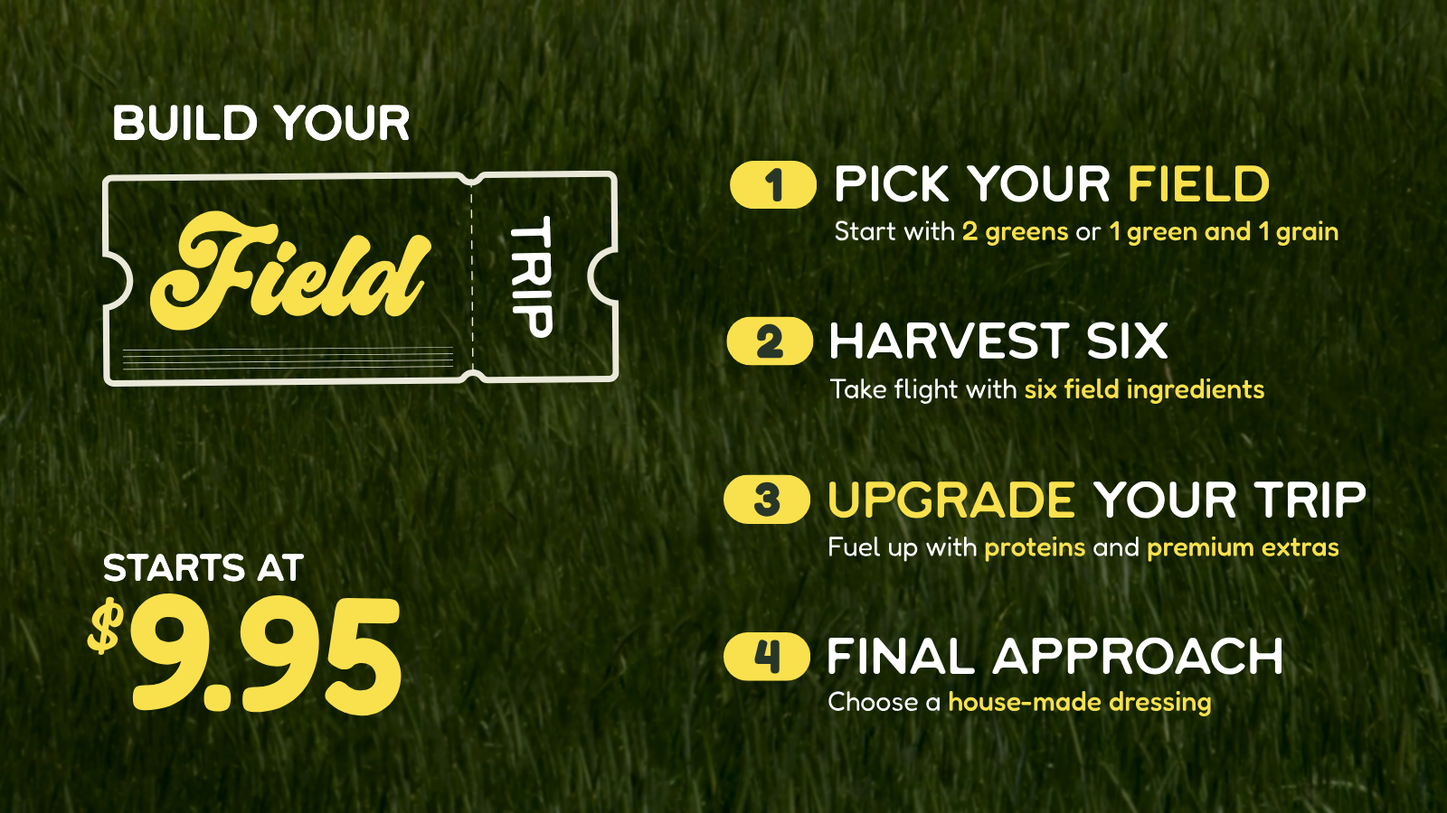
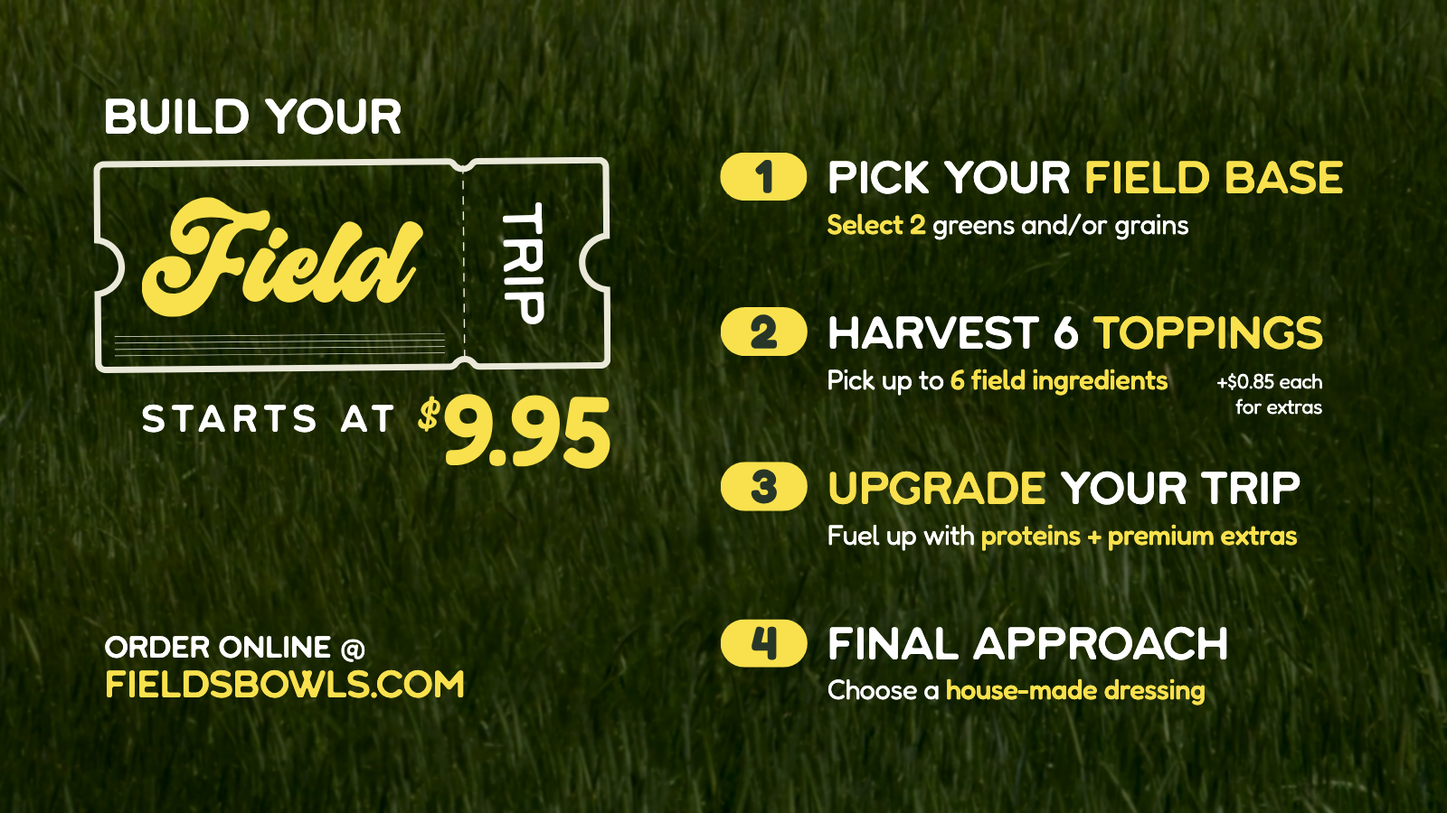
Final boards from Figma FINAL - 1, 2, 3; Layout 2 archived, toggle removed
- Board 1: FINAL - 1, identical to the current Fields Gathered board (no change).
- Board 2: FINAL - 2, Build Your Field Trip with live-text steps (Pick your field base,
  Harvest 6 toppings, +$0.85 each for extras, Upgrade your trip, Final approach) and
  Order online @ fieldsbowls.com.
- Board 3: FINAL - 3, Greens + Grains, Field Ingredients, Proteins with prices, and
  Refreshers ($4.50) with four drinks, plus the olive oil / sourcing note. Caption
  "Ingredients, Proteins + Refreshers".
Within 1 px of Figma at 4K. Layout 2 is archived, so the Layout toggle goes away; the
option is called Grass again. Canvas row D updated, row E moved to the Archive page.

diff --git a/design/Grass-Board3.dc.html b/design/Grass-Board3.dc.html
@@ -2,7 +2,7 @@
 <html lang="en">
 <head>
 <meta charset="utf-8">
-<title>Option D Board 3: Ingredients + Bevs</title>
+<title>Option D Board 3: Ingredients, Proteins + Refreshers</title>
 <script src="./support.js"></script>
 </head>
 <body>
@@ -17,14 +17,19 @@ body{margin:0;font-family:'Fredoka', sans-serif;background:#1d2716;color:#ffffff
 </style>
 </helmet>
 <div class="grass-bg" style="width: 3840px; height: 2160px; box-sizing: border-box; background-color: #1d2716; color: #ffffff; font-family: 'Fredoka', sans-serif; overflow: hidden; position: relative">
-<h2 style="position: absolute; left: 157px; top: 254.1px; margin: 0; font-family: 'Midstar', 'Fredoka', cursive; font-weight: 400; font-size: 253px; line-height: 121.8px; color: #f9e14d; white-space: nowrap">Greens + Grains</h2>
-<p style="position: absolute; left: 217px; top: 499px; margin: 0; font-size: 80px; font-weight: 400; line-height: 123.6px; color: #ffffff; white-space: nowrap">Romaine Hearts · Arugula · Kale · Baby Spinach</p>
-<p style="position: absolute; left: 217px; top: 623px; margin: 0; font-size: 80px; font-weight: 400; line-height: 123.6px; color: #f9e14d; white-space: nowrap">Wild Rice · Tri-Color Quinoa</p>
-<h2 style="position: absolute; left: 157px; top: 954.1px; margin: 0; font-family: 'Midstar', 'Fredoka', cursive; font-weight: 400; font-size: 253px; line-height: 121.8px; color: #f9e14d; white-space: nowrap">Field Ingredients</h2>
-<p style="position: absolute; left: 217px; top: 1235px; margin: 0; font-size: 80px; font-weight: 400; line-height: 123.6px; color: #ffffff; white-space: nowrap">Cucumber · Tri-Color Cherry Tomatoes · Carrot Ribbons<br>Red Onion · Black Beans · Char-Grilled Corn<br>Grilled Poblano · Roasted Chickpeas · Roasted Broccoli<br>Roasted Sweet Potato · Watermelon Radish · Edamame<br>Green Apple · Sliced Strawberries · Pico de Gallo<br>Cilantro · Chives</p>
-<h2 style="position: absolute; left: 2468px; top: 254.1px; margin: 0; font-family: 'Midstar', 'Fredoka', cursive; font-weight: 400; font-size: 253px; line-height: 121.8px; color: #f9e14d; white-space: nowrap">Refreshers</h2>
-<img src="/_blob/1fe0f9f8527c0305a1e2ffc981ed1a79" alt="" style="position: absolute; left: 1410px; top: 1099px; width: 1822px; height: 8px; display: block; transform: rotate(90deg)">
-<div style="position: absolute; left: 2528px; top: 686px; width: 1131px; display: flex; flex-direction: column; gap: 96px"><div style="display: flex; flex-direction: column; gap: 24px"><div style="display: flex; align-items: center; justify-content: space-between; height: 122px; white-space: nowrap"><span style="font-family: 'Heart of the Land', 'Fredoka', sans-serif; font-weight: 400; font-size: 90px; line-height: 121.8px">Arnold Palmer</span><span style="font-size: 98px; font-weight: 600; line-height: 73.6px; color: #f9e14d">$8.95</span></div><p style="margin: 0; height: 65px; font-size: 62px; font-weight: 400; line-height: 64.4px; white-space: nowrap">Sweet tea &amp; lemonade</p></div><div style="display: flex; flex-direction: column; gap: 24px"><div style="display: flex; align-items: center; justify-content: space-between; height: 122px; white-space: nowrap"><span style="font-family: 'Heart of the Land', 'Fredoka', sans-serif; font-weight: 400; font-size: 90px; line-height: 121.8px">Valencia</span><span style="font-size: 98px; font-weight: 600; line-height: 73.6px; color: #f9e14d">$8.95</span></div><p style="margin: 0; height: 65px; font-size: 62px; font-weight: 400; line-height: 64.4px; white-space: nowrap">Fresh orange juice &amp; lemon</p></div><div style="display: flex; flex-direction: column; gap: 24px"><div style="display: flex; align-items: center; justify-content: space-between; height: 122px; white-space: nowrap"><span style="font-family: 'Heart of the Land', 'Fredoka', sans-serif; font-weight: 400; font-size: 90px; line-height: 121.8px">Flamingo</span><span style="font-size: 98px; font-weight: 600; line-height: 73.6px; color: #f9e14d">$9.25</span></div><p style="margin: 0; height: 65px; font-size: 62px; font-weight: 400; line-height: 64.4px; white-space: nowrap">Tropical hibiscus &amp; lemonade</p></div><div style="display: flex; flex-direction: column; gap: 24px"><div style="display: flex; align-items: center; justify-content: space-between; height: 122px; white-space: nowrap"><span style="font-family: 'Heart of the Land', 'Fredoka', sans-serif; font-weight: 400; font-size: 90px; line-height: 121.8px">Bluebird</span><span style="font-size: 98px; font-weight: 600; line-height: 73.6px; color: #f9e14d">$9.50</span></div><p style="margin: 0; height: 129px; font-size: 62px; font-weight: 400; line-height: 64.4px; white-space: nowrap">Refreshing blueberry lavender<br>iced tea</p></div></div>
+<h2 style="position: absolute; left: 177px; top: 196.1px; margin: 0; font-family: 'Midstar', 'Fredoka', cursive; font-weight: 400; font-size: 163px; line-height: 121.8px; color: #f9e14d; white-space: nowrap">Greens + Grains</h2>
+<div style="position: absolute; left: 217px; top: 403px; width: 1841px; display: grid; grid-template-columns: repeat(3, minmax(0, 1fr)); column-gap: 76px; row-gap: 53px; align-items: start; font-size: 68px; font-weight: 400; line-height: normal; white-space: nowrap"><div style="color: #ffffff">Romaine Hearts</div><div style="color: #ffffff">Arugula</div><div style="color: #ffffff">Kale</div><div style="color: #ffffff">Baby Spinach</div><div style="color: #f9e14d">Wild Rice</div><div style="color: #f9e14d">Tri-Color Quinoa</div></div>
+<h2 style="position: absolute; left: 177px; top: 732.1px; margin: 0; font-family: 'Midstar', 'Fredoka', cursive; font-weight: 400; font-size: 163px; line-height: 121.8px; color: #f9e14d; white-space: nowrap">Field Ingredients</h2>
+<div style="position: absolute; left: 217px; top: 981px; width: 1868px; display: grid; grid-template-columns: repeat(3, minmax(0, 1fr)); column-gap: 76px; row-gap: 38px; align-items: start; font-size: 68px; font-weight: 400; line-height: normal; white-space: nowrap"><div style="color: #ffffff">Cucumber</div><div style="color: #ffffff">Carrot Ribbons</div><div style="color: #ffffff">Red Onion</div><div style="color: #ffffff">Edamame</div><div style="color: #ffffff">Black Beans</div><div style="color: #ffffff">Char-Grilled Corn</div><div style="color: #ffffff">Tri-Color Cherry<br>Tomatoes</div><div style="color: #ffffff">Roasted Sweet<br>Potato</div><div style="color: #ffffff">Roasted<br>Chickpeas</div><div style="color: #ffffff">Grilled Poblano<br>Peppers</div><div style="color: #ffffff">Roasted<br>Broccoli</div><div style="color: #ffffff">Watermelon<br>Radish</div><div style="color: #ffffff">Pico de Gallo</div><div style="color: #ffffff">Green Apples</div><div style="color: #ffffff">Strawberries</div><div style="color: #ffffff">Cilantro</div><div style="color: #ffffff">Chives</div><div style="color: #ffffff"></div></div>
+<h2 style="position: absolute; left: 2323px; top: 196.1px; margin: 0; font-family: 'Midstar', 'Fredoka', cursive; font-weight: 400; font-size: 163px; line-height: 121.8px; color: #f9e14d; white-space: nowrap">Proteins</h2>
+<div style="position: absolute; left: 2361px; top: 403px; width: 1275px; display: flex; flex-direction: column; gap: 38px; font-size: 68px"><div style="display: flex; align-items: center; justify-content: space-between; white-space: nowrap"><span style="font-weight: 400; line-height: normal">Citrus-Herb Char Chicken</span><span style="font-weight: 600; line-height: 73.6px; color: #f9e14d">+$4.25</span></div><div style="display: flex; align-items: center; justify-content: space-between; white-space: nowrap"><span style="font-weight: 400; line-height: normal">Blackened Chicken</span><span style="font-weight: 600; line-height: 73.6px; color: #f9e14d">+$4.50</span></div><div style="display: flex; align-items: center; justify-content: space-between; white-space: nowrap"><span style="font-weight: 400; line-height: normal">Alaskan Sesame Miso Salmon</span><span style="font-weight: 600; line-height: 73.6px; color: #f9e14d">+$6.50</span></div><div style="display: flex; align-items: center; justify-content: space-between; white-space: nowrap"><span style="font-weight: 400; line-height: normal">Smoked Applewood Bacon</span><span style="font-weight: 600; line-height: 73.6px; color: #f9e14d">+$2.85</span></div><div style="display: flex; align-items: center; justify-content: space-between; white-space: nowrap"><span style="font-weight: 400; line-height: normal">Sriracha Hot Honey Tofu</span><span style="font-weight: 600; line-height: 73.6px; color: #f9e14d">+$3.50</span></div><div style="display: flex; align-items: center; justify-content: space-between; white-space: nowrap"><span style="font-weight: 400; line-height: normal">Roasted Shiitake Mushrooms</span><span style="font-weight: 600; line-height: 73.6px; color: #f9e14d">+$3.50</span></div><div style="display: flex; align-items: center; justify-content: space-between; white-space: nowrap"><span style="font-weight: 400; line-height: normal">Hardboiled Egg</span><span style="font-weight: 600; line-height: 73.6px; color: #f9e14d">+$1.25</span></div></div>
+<h2 style="position: absolute; left: 2323px; top: 1322.1px; margin: 0; font-family: 'Midstar', 'Fredoka', cursive; font-weight: 400; font-size: 163px; line-height: 121.8px; color: #f9e14d; white-space: nowrap">Refreshers</h2>
+<p style="position: absolute; left: 3393px; top: 1375px; margin: 0; font-size: 106px; font-weight: 600; line-height: 73.6px; white-space: nowrap">$4.50</p>
+<div style="position: absolute; left: 2361px; top: 1568px; width: 717px; white-space: nowrap"><div style="margin-bottom: -13px; font-family: 'Heart of the Land', 'Fredoka', sans-serif; font-weight: 400; font-size: 80px; line-height: 121.8px; color: #f9e14d">PALM SPRINGS</div><div style="font-size: 68px; font-weight: 400; line-height: normal">iced tea + lemonade</div></div>
+<div style="position: absolute; left: 3123px; top: 1568px; width: 717px; white-space: nowrap"><div style="margin-bottom: -13px; font-family: 'Heart of the Land', 'Fredoka', sans-serif; font-weight: 400; font-size: 80px; line-height: 121.8px; color: #f9e14d">VALENCIA</div><div style="font-size: 68px; font-weight: 400; line-height: normal">orange</div></div>
+<div style="position: absolute; left: 2361px; top: 1807px; width: 717px; white-space: nowrap"><div style="margin-bottom: -13px; font-family: 'Heart of the Land', 'Fredoka', sans-serif; font-weight: 400; font-size: 80px; line-height: 121.8px; color: #f9e14d">FLAMINGO</div><div style="font-size: 68px; font-weight: 400; line-height: normal">hibiscus lemonade</div></div>
+<div style="position: absolute; left: 3123px; top: 1807px; width: 717px; white-space: nowrap"><div style="margin-bottom: -13px; font-family: 'Heart of the Land', 'Fredoka', sans-serif; font-weight: 400; font-size: 80px; line-height: 121.8px; color: #f9e14d">BLUEBIRD</div><div style="font-size: 68px; font-weight: 400; line-height: normal">blueberry iced tea</div></div>
+<p style="position: absolute; left: 109px; top: 2009px; transform: translateY(-50%); margin: 0; font-size: 54px; font-weight: 400; line-height: normal; white-space: nowrap">We only use Italian olive oil in our marinades and dressings.<br>All proteins ethically sourced and sustainable</p>
 </div>
 </x-dc>
 <script type="text/x-dc" data-dc-script data-props='{"$preview":{"width":3840,"height":2160}}'>

diff --git a/design/Grass-Board2.dc.html b/design/Grass-Board2.dc.html
@@ -17,25 +17,28 @@ body{margin:0;font-family:'Fredoka', sans-serif;background:#1d2716;color:#ffffff
 </style>
 </helmet>
 <div class="grass-bg" style="width: 3840px; height: 2160px; box-sizing: border-box; background-color: #1d2716; color: #ffffff; font-family: 'Fredoka', sans-serif; overflow: hidden; position: relative">
-<img src="/_blob/1f3e71b203b69e21c8ed1af643aa3a62" alt="" style="position: absolute; left: 269.952px; top: 452.952px; width: 1372.8px; height: 574.128px; display: block">
-<img src="/_blob/52d4baa60b25ff2a85f0cfdd9cfb8b64" alt="Field" style="position: absolute; left: 398.02px; top: 560.26px; width: 746.523px; height: 318.129px; display: block">
-<img src="/_blob/088367d6b171719a7f6558c6dfe4cb27" alt="Trip" style="position: absolute; left: 1249.41px; top: 684.102px; width: 324.073px; height: 104.83px; display: block; transform: rotate(88.74deg)">
-<p style="position: absolute; left: 295px; top: 259px; margin: 0; font-family: 'Heart of the Land', 'Fredoka', sans-serif; font-weight: 400; font-size: 130px; line-height: 123.6px; white-space: nowrap">BUILD YOUR</p>
-<p style="position: absolute; left: 273.54px; top: 1443px; margin: 0; font-family: 'Heart of the Land', 'Fredoka', sans-serif; font-weight: 400; font-size: 100px; line-height: 123.6px; white-space: nowrap">STARTS AT</p>
-<img src="/_blob/0c1cbce504853417f3c1de6f7a1607c9" alt="$9.95" style="position: absolute; left: 205px; top: 1575.33px; width: 862.543px; height: 327.289px; display: block">
-<img src="/_blob/e8e5569f9b638941f0e20ddb220637fa" alt="" style="position: absolute; left: 1941.89px; top: 1043.06px; width: 3.072px; height: 1.08px; display: block; transform: scaleY(-1)">
-<img src="/_blob/043eb4097ea4fbbed468e78b36cc57d0" alt="1" style="position: absolute; left: 1937px; top: 427px; width: 231px; height: 128.452px; display: block">
-<img src="/_blob/8647c1e19b696e6485f31781ef9752ea" alt="Pick your field" style="position: absolute; left: 2219.52px; top: 437.93px; width: 1148.77px; height: 99.496px; display: block">
-<img src="/_blob/440895a9671bd08cc77240a45189ed86" alt="Start with 2 greens or 1 green and 1 grain" style="position: absolute; left: 2217.27px; top: 585.99px; width: 1333.99px; height: 67.19px; display: block">
-<img src="/_blob/b92ff74f402cb85a646d44c6ceefe775" alt="2" style="position: absolute; left: 1928px; top: 841.18px; width: 231px; height: 129.712px; display: block">
-<img src="/_blob/4202076a8f8917de7b9c51e698782702" alt="Harvest six" style="position: absolute; left: 2205.17px; top: 854.67px; width: 893.611px; height: 99.496px; display: block">
-<img src="/_blob/fedcbef7ad9de04a483209a6c0224590" alt="Take flight with six field ingredients" style="position: absolute; left: 2202.31px; top: 1005.45px; width: 1152.22px; height: 67.336px; display: block">
-<img src="/_blob/1930219e5e916519dba999c597027e06" alt="3" style="position: absolute; left: 1920px; top: 1260.79px; width: 231px; height: 130.972px; display: block">
-<img src="/_blob/c55a452476105e9acc95b6d2ea1df7c2" alt="Upgrade your trip" style="position: absolute; left: 2201.27px; top: 1277.69px; width: 1423.38px; height: 99.496px; display: block">
-<img src="/_blob/09bccdd41df448deb0ca6d1c4d548a3a" alt="Fuel up with proteins and premium extras" style="position: absolute; left: 2201.27px; top: 1425.22px; width: 1351.79px; height: 67.263px; display: block">
-<img src="/_blob/82acaa3b98e91ade47c420b69f10c778" alt="4" style="position: absolute; left: 1920px; top: 1680.48px; width: 231px; height: 128.485px; display: block">
-<img src="/_blob/521ab94e2c2d4a0a48c52a74091ab5db" alt="Final approach" style="position: absolute; left: 2199.28px; top: 1692.66px; width: 1201.29px; height: 99.496px; display: block">
-<img src="/_blob/8c9433b7a78cc3434d82dbc50fcebfa9" alt="Choose a house-made dressing" style="position: absolute; left: 2199.28px; top: 1835.84px; width: 1013.46px; height: 67.191px; display: block">
+<img src="/_blob/1f3e71b203b69e21c8ed1af643aa3a62" alt="" style="position: absolute; left: 248.064px; top: 417.096px; width: 1372.8px; height: 573.912px; display: block">
+<img src="/_blob/52d4baa60b25ff2a85f0cfdd9cfb8b64" alt="Field" style="position: absolute; left: 376.02px; top: 524.26px; width: 746.523px; height: 318.129px; display: block">
+<img src="/_blob/088367d6b171719a7f6558c6dfe4cb27" alt="Trip" style="position: absolute; left: 1227.41px; top: 648.102px; width: 324.073px; height: 104.83px; display: block; transform: rotate(88.74deg)">
+<p style="position: absolute; left: 273px; top: 241px; margin: 0; font-family: 'Heart of the Land', 'Fredoka', sans-serif; font-weight: 400; font-size: 130px; line-height: 123.6px; white-space: nowrap">BUILD YOUR</p>
+<p style="position: absolute; left: 376px; top: 1045px; margin: 0; font-family: 'Heart of the Land', 'Fredoka', sans-serif; font-weight: 400; font-size: 100px; line-height: 123.6px; letter-spacing: 17px; white-space: nowrap">STARTS AT</p>
+<img src="/_blob/8fc42b18a74e921aa0aa763704b07bf7" alt="$9.95" style="position: absolute; left: 1093px; top: 1046px; width: 527.543px; height: 200.174px; display: block">
+<p style="position: absolute; left: 277px; top: 1655px; margin: 0; font-family: 'Heart of the Land', 'Fredoka', sans-serif; font-weight: 400; font-size: 80px; line-height: 123.6px; white-space: nowrap">ORDER ONLINE @</p>
+<p style="position: absolute; left: 277px; top: 1752px; margin: 0; font-family: 'Heart of the Land', 'Fredoka', sans-serif; font-weight: 400; font-size: 100px; line-height: 123.6px; white-space: nowrap"><span style="color: #f9e14d">FIELDSBOWLS.COM</span></p>
+<img src="/_blob/e8e5569f9b638941f0e20ddb220637fa" alt="" style="position: absolute; left: 1819.01px; top: 1019.09px; width: 3.072px; height: 1.08px; display: block; transform: scaleY(-1)">
+<img src="/_blob/043eb4097ea4fbbed468e78b36cc57d0" alt="1" style="position: absolute; left: 1911.03px; top: 405px; width: 231px; height: 128.452px; display: block">
+<p style="position: absolute; left: 2195.03px; top: 405px; margin: 0; font-family: 'Heart of the Land', 'Fredoka', sans-serif; font-weight: 400; font-size: 120px; line-height: 123.6px; white-space: nowrap">PICK YOUR <span style="color: #f9e14d">FIELD BASE</span></p>
+<p style="position: absolute; left: 2195.03px; top: 550px; margin: 0; font-size: 74px; font-weight: 400; line-height: normal; letter-spacing: -1px; white-space: nowrap; font-feature-settings: 'dlig' 1"><span style="font-weight: 500; color: #f9e14d">Select 2</span> greens and/or grains</p>
+<img src="/_blob/b92ff74f402cb85a646d44c6ceefe775" alt="2" style="position: absolute; left: 1912.03px; top: 816px; width: 231px; height: 129.712px; display: block">
+<p style="position: absolute; left: 2195.03px; top: 817px; margin: 0; font-family: 'Heart of the Land', 'Fredoka', sans-serif; font-weight: 400; font-size: 120px; line-height: 123.6px; white-space: nowrap">HARVEST 6 <span style="color: #f9e14d">TOPPINGS</span></p>
+<p style="position: absolute; left: 2195.03px; top: 962px; margin: 0; font-size: 74px; font-weight: 400; line-height: normal; letter-spacing: -1px; white-space: nowrap; font-feature-settings: 'dlig' 1">Pick up to<span style="font-weight: 500; color: #f9e14d"> 6 field ingredients</span></p>
+<img src="/_blob/1930219e5e916519dba999c597027e06" alt="3" style="position: absolute; left: 1912.03px; top: 1227px; width: 231px; height: 130.972px; display: block">
+<p style="position: absolute; left: 2195.03px; top: 1229px; margin: 0; font-family: 'Heart of the Land', 'Fredoka', sans-serif; font-weight: 400; font-size: 120px; line-height: 123.6px; white-space: nowrap"><span style="color: #f9e14d">UPGRADE</span> YOUR TRIP</p>
+<p style="position: absolute; left: 2195.03px; top: 1374px; margin: 0; font-size: 74px; font-weight: 400; line-height: normal; letter-spacing: -1px; white-space: nowrap; font-feature-settings: 'dlig' 1">Fuel up with <span style="font-weight: 500; color: #f9e14d">proteins + premium extras</span></p>
+<img src="/_blob/82acaa3b98e91ade47c420b69f10c778" alt="4" style="position: absolute; left: 1912.03px; top: 1645px; width: 231px; height: 128.485px; display: block">
+<p style="position: absolute; left: 2195.03px; top: 1642px; margin: 0; font-family: 'Heart of the Land', 'Fredoka', sans-serif; font-weight: 400; font-size: 120px; line-height: 123.6px; white-space: nowrap">FINAL APPROACH</p>
+<p style="position: absolute; left: 2195.03px; top: 1786px; margin: 0; font-size: 74px; font-weight: 400; line-height: normal; letter-spacing: -1px; white-space: nowrap; font-feature-settings: 'dlig' 1">Choose a <span style="font-weight: 500; color: #f9e14d">house-made dressing</span></p>
+<p style="position: absolute; right: 331px; top: 979px; margin: 0; font-size: 55px; font-weight: 400; line-height: normal; letter-spacing: -1px; text-align: right; white-space: nowrap">+$0.85 each<br>for extras</p>
 </div>
 </x-dc>
 <script type="text/x-dc" data-dc-script data-props='{"$preview":{"width":3840,"height":2160}}'>

diff --git a/js/config.js b/js/config.js
@@ -13,9 +13,9 @@
  *
  * Adding a board: add it to `boards`; to show it in the photo, give it a `screens` entry.
  *
- * The live options are now two menu layouts on the same Grass ground (`optionsLabel`), each a
- * row of Figma's LATEST BOARDS page. An option's `titles` names its boards where they differ
- * from `boards`.
+ * Grass is the only live option (the final boards). Layout 2 is archived; with two or more options
+ * the tabs come back, labelled `optionsLabel`. An option's `titles` names its boards where they
+ * differ from `boards`.
  */
 window.MENU_CONFIG = {
   title: 'Fields · Menu Boards',
@@ -36,7 +36,7 @@ window.MENU_CONFIG = {
   boards: [
     { id: 'salads', title: 'Fields Gathered', short: 'Salads' },
     { id: 'build', title: 'Build Your Field Trip', short: 'BYO' },
-    { id: 'beverages', title: 'Greens, Grains + Refreshers', short: 'Beverages' },
+    { id: 'beverages', title: 'Ingredients, Proteins + Refreshers', short: 'Beverages' },
   ],
 
   // Mix & Match starts from this combination (board → colorway) the first time it's opened.
@@ -69,15 +69,15 @@ window.MENU_CONFIG = {
     // `motion`: Still / Motion / Panorama. Motion swaps the stills for the moving footage (one
     // shared loop, tools/grass-motion.mjs) under each board's text; `start` is each board's
     // moment in the loop, matching its still. `span`: Panorama, one field across all three TVs.
-    { id: 'grass', name: 'Layout 1', ground: '#3f5a22', accent: '#f9e14d',
-      description: 'First row in Figma: Fields Gathered, Build Your Field Trip, Ingredients + Refreshers',
+    { id: 'grass', name: 'Grass', ground: '#3f5a22', accent: '#f9e14d',
+      description: 'Grass photo ground: the final boards from Figma (FINAL - 1, 2, 3)',
       motion: { start: { salads: 0, build: 9.5, beverages: 17.5 }, span: true } },
-    // The second row in Figma (frames 1, 2, 3): same ground and footage (`motion.from`), Field
-    // Trip on the left TV, then the bowls over two boards with Refreshers.
+    // Archived: the earlier second row in Figma (frames 3, 1, 2), same ground and footage
+    // (`motion.from`). Delete `archived` to bring back the Layout toggle.
     { id: 'grass-2', name: 'Layout 2', ground: '#3f5a22', accent: '#f9e14d',
       description: 'Second row in Figma, Field Trip first: Build Your Field Trip, Fields Gathered, Bowls + Refreshers',
       titles: { salads: 'Build Your Field Trip', build: 'Fields Gathered', beverages: 'Bowls + Refreshers' },
-      motion: { from: 'grass', start: { salads: 0, build: 9.5, beverages: 17.5 }, span: true } },
+      motion: { from: 'grass', start: { salads: 0, build: 9.5, beverages: 17.5 }, span: true }, archived: true },
   ],
 
   // A board's name in this option: its own `titles` entry, else the board's title.

diff --git a/assets/boards/versions.js b/assets/boards/versions.js
@@ -16,14 +16,14 @@ window.BOARD_VERSIONS = {
   "forest/salads-screen.png": "aa6ef7180a",
   "forest/salads.mp4": "8639fc3c96",
   "forest/salads.png": "0ee02eaa35",
-  "grass/beverages-screen.png": "87a7fd25a2",
-  "grass/beverages-text-screen.png": "89307b71e9",
-  "grass/beverages-text.png": "3281c766d6",
-  "grass/beverages.png": "eacee7d93a",
-  "grass/build-screen.png": "25219c4e95",
-  "grass/build-text-screen.png": "4c9718e131",
-  "grass/build-text.png": "73c7c81be2",
-  "grass/build.png": "0177213130",
+  "grass/beverages-screen.png": "af1b59cd6a",
+  "grass/beverages-text-screen.png": "97a5230ae3",
+  "grass/beverages-text.png": "396c351492",
+  "grass/beverages.png": "df17e48deb",
+  "grass/build-screen.png": "a91132508e",
+  "grass/build-text-screen.png": "b43fc09471",
+  "grass/build-text.png": "0966cedf1a",
+  "grass/build.png": "30883951f4",
   "grass/motion-screen.mp4": "09b4be509d",
   "grass/motion.mp4": "4100e164d4",
   "grass/salads-screen.png": "828f2d80fe",

diff --git a/index.html b/index.html
@@ -11,8 +11,8 @@
 <body class="page-scene">
 <main id="scene" class="scene" aria-label="Menu boards in store"></main>
 <p class="rotate-hint">Turn your phone sideways for a closer look</p>
-<script src="assets/boards/versions.js?v=819e1d046e"></script>
-<script src="js/config.js?v=05226c3c1a"></script>
+<script src="assets/boards/versions.js?v=017f0891d8"></script>
+<script src="js/config.js?v=eb8caf72e6"></script>
 <script src="js/common.js?v=c7d3fd3009"></script>
 <script src="js/scene.js?v=374e8dda85"></script>
 </body>

diff --git a/gallery.html b/gallery.html
@@ -16,8 +16,8 @@
   <nav aria-label="Colorways and boards"><ol id="toc" class="toc"></ol></nav>
 </aside>
 <main id="doc" class="doc"></main>
-<script src="assets/boards/versions.js?v=819e1d046e"></script>
-<script src="js/config.js?v=05226c3c1a"></script>
+<script src="assets/boards/versions.js?v=017f0891d8"></script>
+<script src="js/config.js?v=eb8caf72e6"></script>
 <script src="js/common.js?v=c7d3fd3009"></script>
 <script src="js/gallery.js?v=515b53a47c"></script>
 </body>

diff --git a/tools/build-grass-latest.py b/tools/build-grass-latest.py
@@ -1,6 +1,7 @@
-# Builds the Grass artboards from Figma's "LATEST BOARDS" page. Layout 1 (Grass-Board1/2/3.dc.html), the first row:
-# (frames 79:1462 Signature "Fields Gathered", 119:8445 "Build Your Own - NEW" Field Trip,
-# 120:60 "Ingredients + Bevs"). Layout 2 (Layout2-Board1/2/3.dc.html) is the second row, frames 1, 2, 3.
+# Builds the Grass artboards from Figma's "LATEST BOARDS" page. The live boards (Grass-Board1/2/3.dc.html) are
+# frames "FINAL - 1" (122:810, same as 79:1462 "Fields Gathered"), "FINAL - 2" (122:876, Field Trip) and
+# "FINAL - 3" (122:1217, ingredients, proteins and refreshers). Archived Layout 2 (Layout2-Board1/2/3.dc.html)
+# is the earlier second row, frames 3, 1, 2.
 # Positions and sizes are Figma's.
 # Board 1's title, board 2's lettering and board 3's divider are Figma's vector exports in design/assets/field-trip/.
 #
@@ -71,68 +72,74 @@ def signature():
     b += item('Fields Notes', '$13.50', ['Kale + spinach, roasted sweet potato, roasted broccoli, mixed', 'mushrooms, sliced apple, blue cheese crumbles, sliced almonds, honey-', 'thyme dressing, hot honey drizzle'], tracking=-2)
     return b + '</div>\n'
 
-# ------------------------------------------------------------------ Board 2: Build your Field Trip
+# ------------------------------------------------------------------ Board 2: Build your Field Trip (FINAL - 2)
 def build():
-    b = ''
-    # The ticket (lying flat), "Field" on it, and "TRIP" stood on end in its stub, turned 88.74deg.
-    x, y, w, h = inset(20.97, 57.22, 52.45, 7.03)
-    b += svg('ticket-2', x, y, w, h)
-    b += svg('field-2', 398.02, 560.26, 746.523, 318.129, alt='Field')
-    b += svg('trip', 1355.49 + (111.911 - 324.073) / 2, 573.37 + (326.294 - 104.83) / 2, 324.073, 104.83, alt='Trip', transform='rotate(88.74deg)')
-    # Figma's Heart of the Land glyphs sit 1px lower than a browser's in the same line box.
-    b += f'<p style="position: absolute; left: 295px; top: 259px; margin: 0; {HOTL}; font-size: 130px; line-height: 123.6px; white-space: nowrap">BUILD YOUR</p>\n'
-    b += f'<p style="position: absolute; left: 273.54px; top: 1443px; margin: 0; {HOTL}; font-size: 100px; line-height: 123.6px; white-space: nowrap">STARTS AT</p>\n'
-    b += svg('price-2', 205, 1575.33, 862.543, 327.289, alt='$9.95')
-    x, y, w, h = inset(48.29, 49.35, 51.66, 50.57)  # a stray 3x1 px path in Figma, kept for fidelity
+    x, y, w, h = inset(19.31, 57.79, 54.12, 6.46)
+    b = svg('ticket-2', x, y, w, h)
+    b += svg('field-2', 376.02, 524.26, 746.523, 318.129, alt='Field')
+    b += svg('trip', 1333.49 + (111.911 - 324.073) / 2, 537.37 + (326.294 - 104.83) / 2, 324.073, 104.83, alt='Trip', transform='rotate(88.74deg)')
+    hotl = lambda x, y, size, html, extra='': (f'<p style="position: absolute; left: {x}px; top: {y}px; margin: 0; {HOTL}; font-size: {size}px; '
+                                              f'line-height: 123.6px;{extra} white-space: nowrap">{html}</p>\n')
+    b += hotl(273, 241, 130, 'BUILD YOUR')
+    b += hotl(376, 1045, 100, 'STARTS AT', ' letter-spacing: 17px;')
+    b += svg('price-3', 1093, 1046, 527.543, 200.174, alt='$9.95')
+    b += hotl(277, 1655, 80, 'ORDER ONLINE @')
+    b += hotl(277, 1752, 100, f'<span style="color: {SUN}">FIELDSBOWLS.COM</span>')
+    x, y, w, h = inset(47.18, 52.55, 52.77, 47.37)  # the stray 3x1 px path, as in Figma
     b += svg('path83', x, y, w, h, transform='scaleY(-1)')
-    # Four steps: number pill, heading, and one line, each where Figma puts it.
-    for key, x, y, w, h, alt in [
-        ('step1', 1937, 427, 231, 128.452, '1'),
-        ('pick-your-field-2', 2219.52, 437.93, 1148.769, 99.496, 'Pick your field'),
-        ('start-with-2', 2217.27, 585.99, 1333.993, 67.19, 'Start with 2 greens or 1 green and 1 grain'),
-        ('step2', 1928, 841.18, 231, 129.712, '2'),
-        ('harvest-six-2', 2205.17, 854.67, 893.611, 99.496, 'Harvest six'),
-        ('take-flight-2', 2202.31, 1005.45, 1152.224, 67.336, 'Take flight with six field ingredients'),
-        ('step3', 1920, 1260.79, 231, 130.972, '3'),
-        ('upgrade-your-trip-2', 2201.27, 1277.69, 1423.38, 99.496, 'Upgrade your trip'),
-        ('fuel-up-2', 2201.27, 1425.22, 1351.792, 67.263, 'Fuel up with proteins and premium extras'),
-        ('step4', 1920, 1680.48, 231, 128.485, '4'),
-        ('final-approach-2', 2199.28, 1692.66, 1201.287, 99.496, 'Final approach'),
-        ('choose-dressing-2', 2199.28, 1835.84, 1013.461, 67.191, 'Choose a house-made dressing'),
+    # Four steps: a number pill, a Heart of the Land heading, and a Fredoka line with the key words
+    # in medium-weight yellow.
+    yel = lambda t: f'<span style="font-weight: 500; color: {SUN}">{t}</span>'
+    line = lambda y, html: (f'<p style="position: absolute; left: 2195.03px; top: {y}px; margin: 0; font-size: 74px; font-weight: 400; line-height: normal; '
+                            f'letter-spacing: -1px; white-space: nowrap; font-feature-settings: \'dlig\' 1">{html}</p>\n')
+    for key, px, py, ph, head, hy, text, ty in [
+        ('step1', 1911.03, 405, 128.452, f'PICK YOUR <span style="color: {SUN}">FIELD BASE</span>', 404, yel('Select 2') + ' greens and/or grains', 550),
+        ('step2', 1912.03, 816, 129.712, f'HARVEST 6 <span style="color: {SUN}">TOPPINGS</span>', 816, 'Pick up to' + yel(' 6 field ingredients'), 962),
+        ('step3', 1912.03, 1227, 130.972, f'<span style="color: {SUN}">UPGRADE</span> YOUR TRIP', 1228, 'Fuel up with ' + yel('proteins + premium extras'), 1374),
+        ('step4', 1912.03, 1645, 128.485, 'FINAL APPROACH', 1640, 'Choose a ' + yel('house-made dressing'), 1786),
     ]:
-        b += svg(key, x, y, w, h, alt=alt)
+        b += svg(key, px, py, 231, ph, alt=key[-1])
+        b += hotl(2195.03, hy + (2 if key == 'step4' else 1), 120, head)  # Figma's glyphs sit 1-2px lower
+        b += line(ty, text)
+    b += ('<p style="position: absolute; right: 331px; top: 979px; margin: 0; font-size: 55px; font-weight: 400; line-height: normal; '
+          'letter-spacing: -1px; text-align: right; white-space: nowrap">+$0.85 each<br>for extras</p>\n')
     return b
 
-# ------------------------------------------------------------------ Board 3: Ingredients + Bevs
+# ------------------------------------------------------------------ Board 3: Ingredients, Proteins + Refreshers (FINAL - 3)
 def beverages():
-    title = lambda x, cy, t: (f'<h2 style="position: absolute; left: {x}px; top: {cy - 60.9:g}px; margin: 0; {MID}; font-size: 253px; '
+    title = lambda x, cy, t: (f'<h2 style="position: absolute; left: {x}px; top: {cy - 59.9:g}px; margin: 0; {MID}; font-size: 163px; '
                               f'line-height: 121.8px; color: {SUN}; white-space: nowrap">{t}</h2>\n')
-    lines = lambda y, rows, color=WHITE: (f'<p style="position: absolute; left: 217px; top: {y}px; margin: 0; font-size: 80px; font-weight: 400; '
-                                          f'line-height: 123.6px; color: {color}; white-space: nowrap">' + '<br>'.join(rows) + '</p>\n')
-    # Rows and descriptions take Figma's whole-pixel heights (122, 65, 129), so the list doesn't drift.
-    def drink(name, price, desc):
-        return (f'<div style="display: flex; flex-direction: column; gap: 24px">'
-                f'<div style="display: flex; align-items: center; justify-content: space-between; height: 122px; white-space: nowrap">'
-                f'<span style="{HOTL}; font-size: 90px; line-height: 121.8px">{name}</span>'
-                f'<span style="font-size: 98px; font-weight: 600; line-height: 73.6px; color: {SUN}">{price}</span></div>'
-                f'<p style="margin: 0; height: {65 if len(desc) == 1 else 129}px; font-size: 62px; font-weight: 400; line-height: 64.4px; white-space: nowrap">'
-                + '<br>'.join(desc) + '</p></div>')
-    b = title(157, 315, 'Greens + Grains')
-    b += lines(499, ['Romaine Hearts · Arugula · Kale · Baby Spinach'])
-    b += lines(623, ['Wild Rice · Tri-Color Quinoa'], SUN)
-    b += title(157, 1015, 'Field Ingredients')
-    b += lines(1235, ['Cucumber · Tri-Color Cherry Tomatoes · Carrot Ribbons', 'Red Onion · Black Beans · Char-Grilled Corn',
-                      'Grilled Poblano · Roasted Chickpeas · Roasted Broccoli', 'Roasted Sweet Potato · Watermelon Radish · Edamame',
-                      'Green Apple · Sliced Strawberries · Pico de Gallo', 'Cilantro · Chives'])
-    b += title(2468, 315, 'Refreshers')
-    # The dashed divider: a 1822 x 8 line turned upright, centred on x = 2321 from y = 196 to 2010.
-    b += svg('divider', 2321 - 911, 196 + 1814 / 2 - 4, 1822, 8, transform='rotate(90deg)')
-    b += '<div style="position: absolute; left: 2528px; top: 686px; width: 1131px; display: flex; flex-direction: column; gap: 96px">'
-    b += drink('Arnold Palmer', '$8.95', ['Sweet tea &amp; lemonade'])
-    b += drink('Valencia', '$8.95', ['Fresh orange juice &amp; lemon'])
-    b += drink('Flamingo', '$9.25', ['Tropical hibiscus &amp; lemonade'])
-    b += drink('Bluebird', '$9.50', ['Refreshing blueberry lavender', 'iced tea'])
-    return b + '</div>\n'
+    def grid(x, y, width, row_gap, rows):
+        cells = ''.join(f'<div style="color: {SUN if c.startswith("*") else WHITE}">{c.lstrip("*")}</div>' for r in rows for c in r)
+        return (f'<div style="position: absolute; left: {x}px; top: {y}px; width: {width}px; display: grid; grid-template-columns: repeat(3, minmax(0, 1fr)); '
+                f'column-gap: 76px; row-gap: {row_gap}px; align-items: start; font-size: 68px; font-weight: 400; line-height: normal; white-space: nowrap">{cells}</div>\n')
+    b = title(177, 256, 'Greens + Grains')
+    b += grid(217, 403, 1841, 53, [['Romaine Hearts', 'Arugula', 'Kale'], ['Baby Spinach', '*Wild Rice', '*Tri-Color Quinoa']])
+    b += title(177, 792, 'Field Ingredients')
+    b += grid(217, 981, 1868, 38, [['Cucumber', 'Carrot Ribbons', 'Red Onion'], ['Edamame', 'Black Beans', 'Char-Grilled Corn'],
+                                   ['Tri-Color Cherry<br>Tomatoes', 'Roasted Sweet<br>Potato', 'Roasted<br>Chickpeas'],
+                                   ['Grilled Poblano<br>Peppers', 'Roasted<br>Broccoli', 'Watermelon<br>Radish'],
+                                   ['Pico de Gallo', 'Green Apples', 'Strawberries'], ['Cilantro', 'Chives', '']])
+    b += title(2323, 256, 'Proteins')
+    b += ('<div style="position: absolute; left: 2361px; top: 403px; width: 1275px; display: flex; flex-direction: column; gap: 38px; font-size: 68px">'
+          + ''.join(f'<div style="display: flex; align-items: center; justify-content: space-between; white-space: nowrap">'
+                    f'<span style="font-weight: 400; line-height: normal">{n}</span>'
+                    f'<span style="font-weight: 600; line-height: 73.6px; color: {SUN}">{pr}</span></div>'
+                    for n, pr in [('Citrus-Herb Char Chicken', '+$4.25'), ('Blackened Chicken', '+$4.50'), ('Alaskan Sesame Miso Salmon', '+$6.50'),
+                                  ('Smoked Applewood Bacon', '+$2.85'), ('Sriracha Hot Honey Tofu', '+$3.50'),
+                                  ('Roasted Shiitake Mushrooms', '+$3.50'), ('Hardboiled Egg', '+$1.25')]) + '</div>\n')
+    b += title(2323, 1382, 'Refreshers')
+    b += ('<p style="position: absolute; left: 3393px; top: 1375px; margin: 0; font-size: 106px; font-weight: 600; line-height: 73.6px; '
+          'white-space: nowrap">$4.50</p>\n')
+    for x, y, name, desc in [(2361, 1567, 'PALM SPRINGS', 'iced tea + lemonade'), (3123, 1567, 'VALENCIA', 'orange'),
+                             (2361, 1806, 'FLAMINGO', 'hibiscus lemonade'), (3123, 1806, 'BLUEBIRD', 'blueberry iced tea')]:
+        b += (f'<div style="position: absolute; left: {x}px; top: {y + 1}px; width: 717px; white-space: nowrap">'
+              f'<div style="margin-bottom: -13px; {HOTL}; font-size: 80px; line-height: 121.8px; color: {SUN}">{name}</div>'
+              f'<div style="font-size: 68px; font-weight: 400; line-height: normal">{desc}</div></div>\n')
+    b += ('<p style="position: absolute; left: 109px; top: 2009px; transform: translateY(-50%); margin: 0; font-size: 54px; font-weight: 400; '
+          'line-height: normal; white-space: nowrap">We only use Italian olive oil in our marinades and dressings.<br>'
+          'All proteins ethically sourced and sustainable</p>\n')
+    return b
 
 # ================================================================== Layout 2: the second row
 # Figma frames 121:403 "1", 121:470 "2", 121:564 "3": the bowls split over two boards with Refreshers,
@@ -231,7 +238,7 @@ def clean(html):  # the shell adds a logo when there is one; these boards have n
 
 for name, board, title, fn in [('Grass-Board1.dc.html', 'salads', 'Board 1: Fields Gathered', signature),
                                ('Grass-Board2.dc.html', 'build', 'Board 2: Build your Field Trip', build),
-                               ('Grass-Board3.dc.html', 'beverages', 'Board 3: Ingredients + Bevs', beverages)]:
+                               ('Grass-Board3.dc.html', 'beverages', 'Board 3: Ingredients, Proteins + Refreshers', beverages)]:
     html = clean(page(C, board, f'Option D {title}', fn()))
     open(os.path.join(out, name), 'w').write(html)
 # Layout 2 runs Field Trip first (left TV), then Figma's frames 1 and 2.

diff --git a/CLAUDE.md b/CLAUDE.md
@@ -18,14 +18,14 @@ move to Cloudflare Pages later.
   - [`design/manifest.json`](design/manifest.json) maps each artboard file to a colorway and board. It also maps each canvas `/_blob/<id>` asset to a local file.
 - **The user edits the canvas live.** Always re-read the files you need from the canvas before
   relying on the local copies. Publishing to the canvas needs a fresh read first: a stale publish is refused as a conflict.
-- Colorway ids: `almond`, `forest`, `sunshine`, `grass`, `grass-2`. Almond, Forest and Sunshine are archived
-  (`archived: true` in `js/config.js`; the site hides them). In the canvas, rows A–C are on the **Archive** page.
-- **Two menu layouts are live**, both on the grass ground, chosen with the bottom-left **Layout** tabs
-  (`optionsLabel`; Mix & Match is off with `mixAndMatch: false`):
-  - **Layout 1** (`grass`, canvas row D, `Grass-Board*.dc.html`): the first row of Figma's LATEST BOARDS page.
-  - **Layout 2** (`grass-2`, canvas row E, `Layout2-Board*.dc.html`): the second row, Field Trip first (frames 3, 1, 2). Its boards
-    have their own captions (`titles`), and it borrows Layout 1's footage (`motion.from: 'grass'`); its text
-    layers come from `textLayers: true` on its artboards in `design/manifest.json`.
+- Colorway ids: `almond`, `forest`, `sunshine`, `grass`, `grass-2`. **Only Grass is live**, with the final boards
+  (Figma LATEST BOARDS frames "FINAL - 1, 2, 3"; canvas row D, `Grass-Board*.dc.html`). Everything else is archived
+  (`archived: true` in `js/config.js`; the site hides it, and with one option left the dock shows only
+  Still · Motion · Panorama). In the canvas, rows A–C and E are on the **Archive** page.
+  - Archived Layout 2 (`grass-2`, row E, `Layout2-Board*.dc.html`) is an earlier alternative. Unarchiving it brings
+    back the **Layout** tabs (`optionsLabel`; Mix & Match stays off with `mixAndMatch: false`). It has its own
+    captions (`titles`), borrows Grass's footage (`motion.from: 'grass'`), and gets text layers from
+    `textLayers: true` on its artboards in `design/manifest.json`.
   - `python3 tools/build-grass-latest.py design` regenerates all six artboards from the Figma positions.
 - Board ids: `salads` (left TV), `build` (center), `beverages` (right).
 - Grass (canvas row D, `Grass-Board*.dc.html`):

diff --git a/README.md b/README.md
@@ -2,7 +2,7 @@
 
 A client presentation of the Fields digital menu boards. It's a static site with no build step.
 
-**Two menu layouts are shown now**, both on the grass ground: **Layout 1** and **Layout 2**, the two rows of boards in Figma. Pick one with the Layout tabs at bottom left. Almond, Forest and Sunshine are archived: `archived: true` in `js/config.js` (delete it to bring one back). Their artwork stays in `assets/boards/`, and in the design canvas they're on the Archive page. Mix & Match is off (`mixAndMatch: false`).
+**Only Grass is shown now**, with the final boards from Figma. Almond, Forest, Sunshine and the alternative Layout 2 are archived: `archived: true` in `js/config.js` (delete it to bring one back; two or more options bring back the tabs at bottom left). Their artwork stays in `assets/boards/`, and in the design canvas they're on the Archive page. Mix & Match is off (`mixAndMatch: false`).
 
 - **In store** (`index.html`): the counter photo with each colorway on the three TVs. Pick a colorway at bottom left. Click a screen to see that board full size.
   - **Mix & Match**, the fourth colorway tab, gives each TV its own colorway through a dropdown per board. It starts as Almond / Forest / Sunshine; set the starting combination with `mixDefaults` in `js/config.js`.
